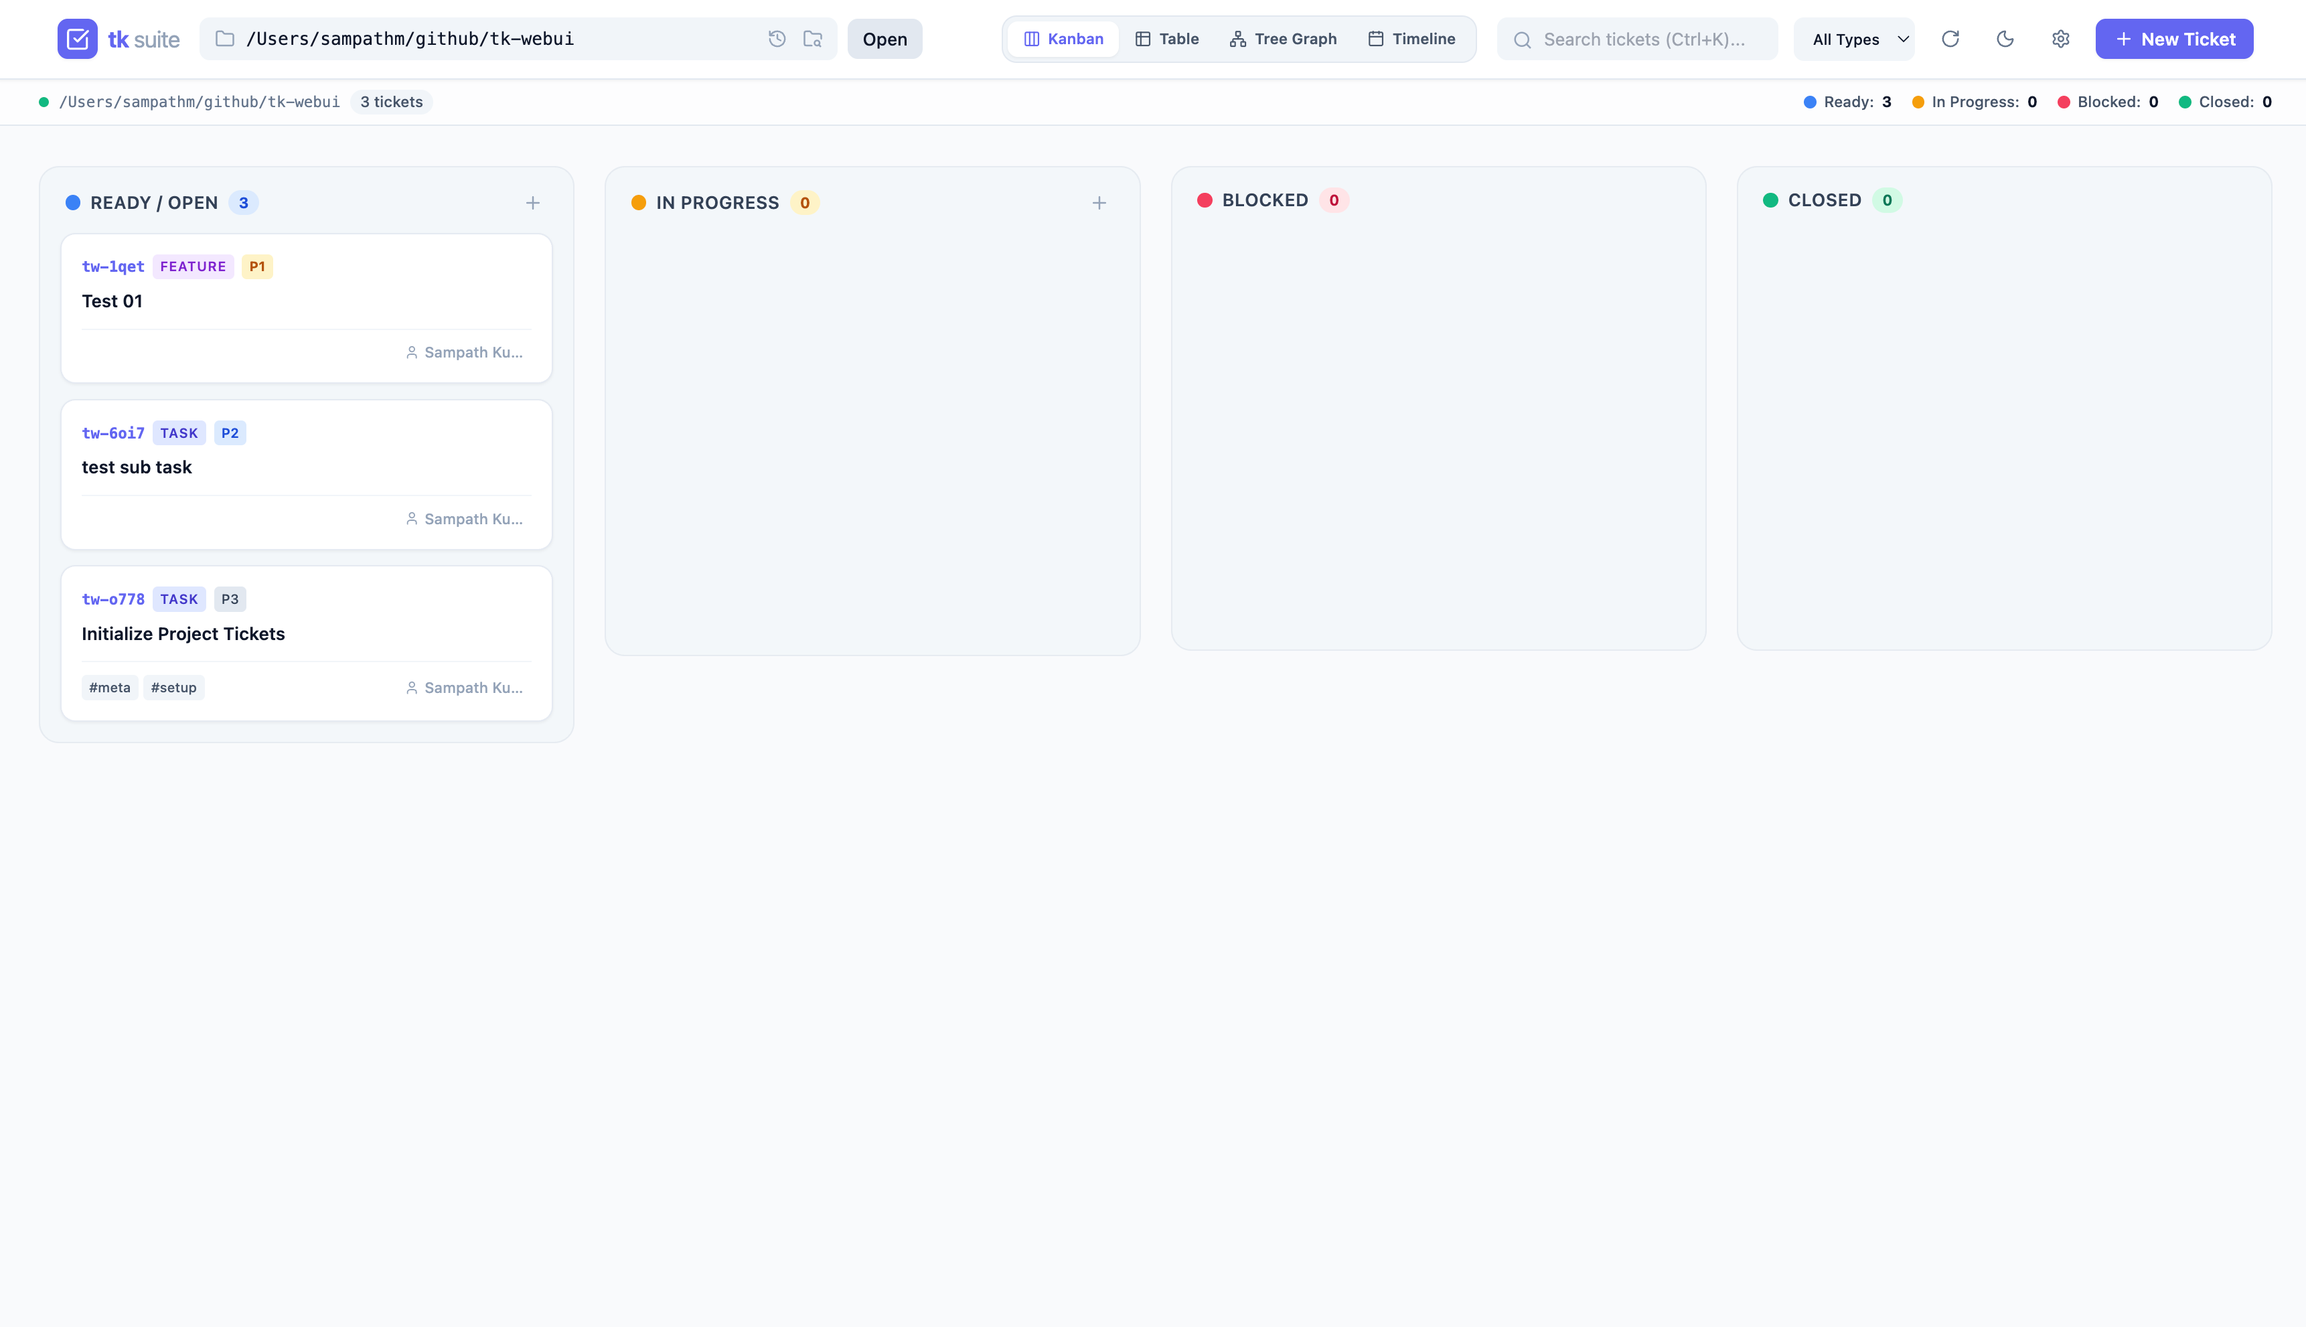
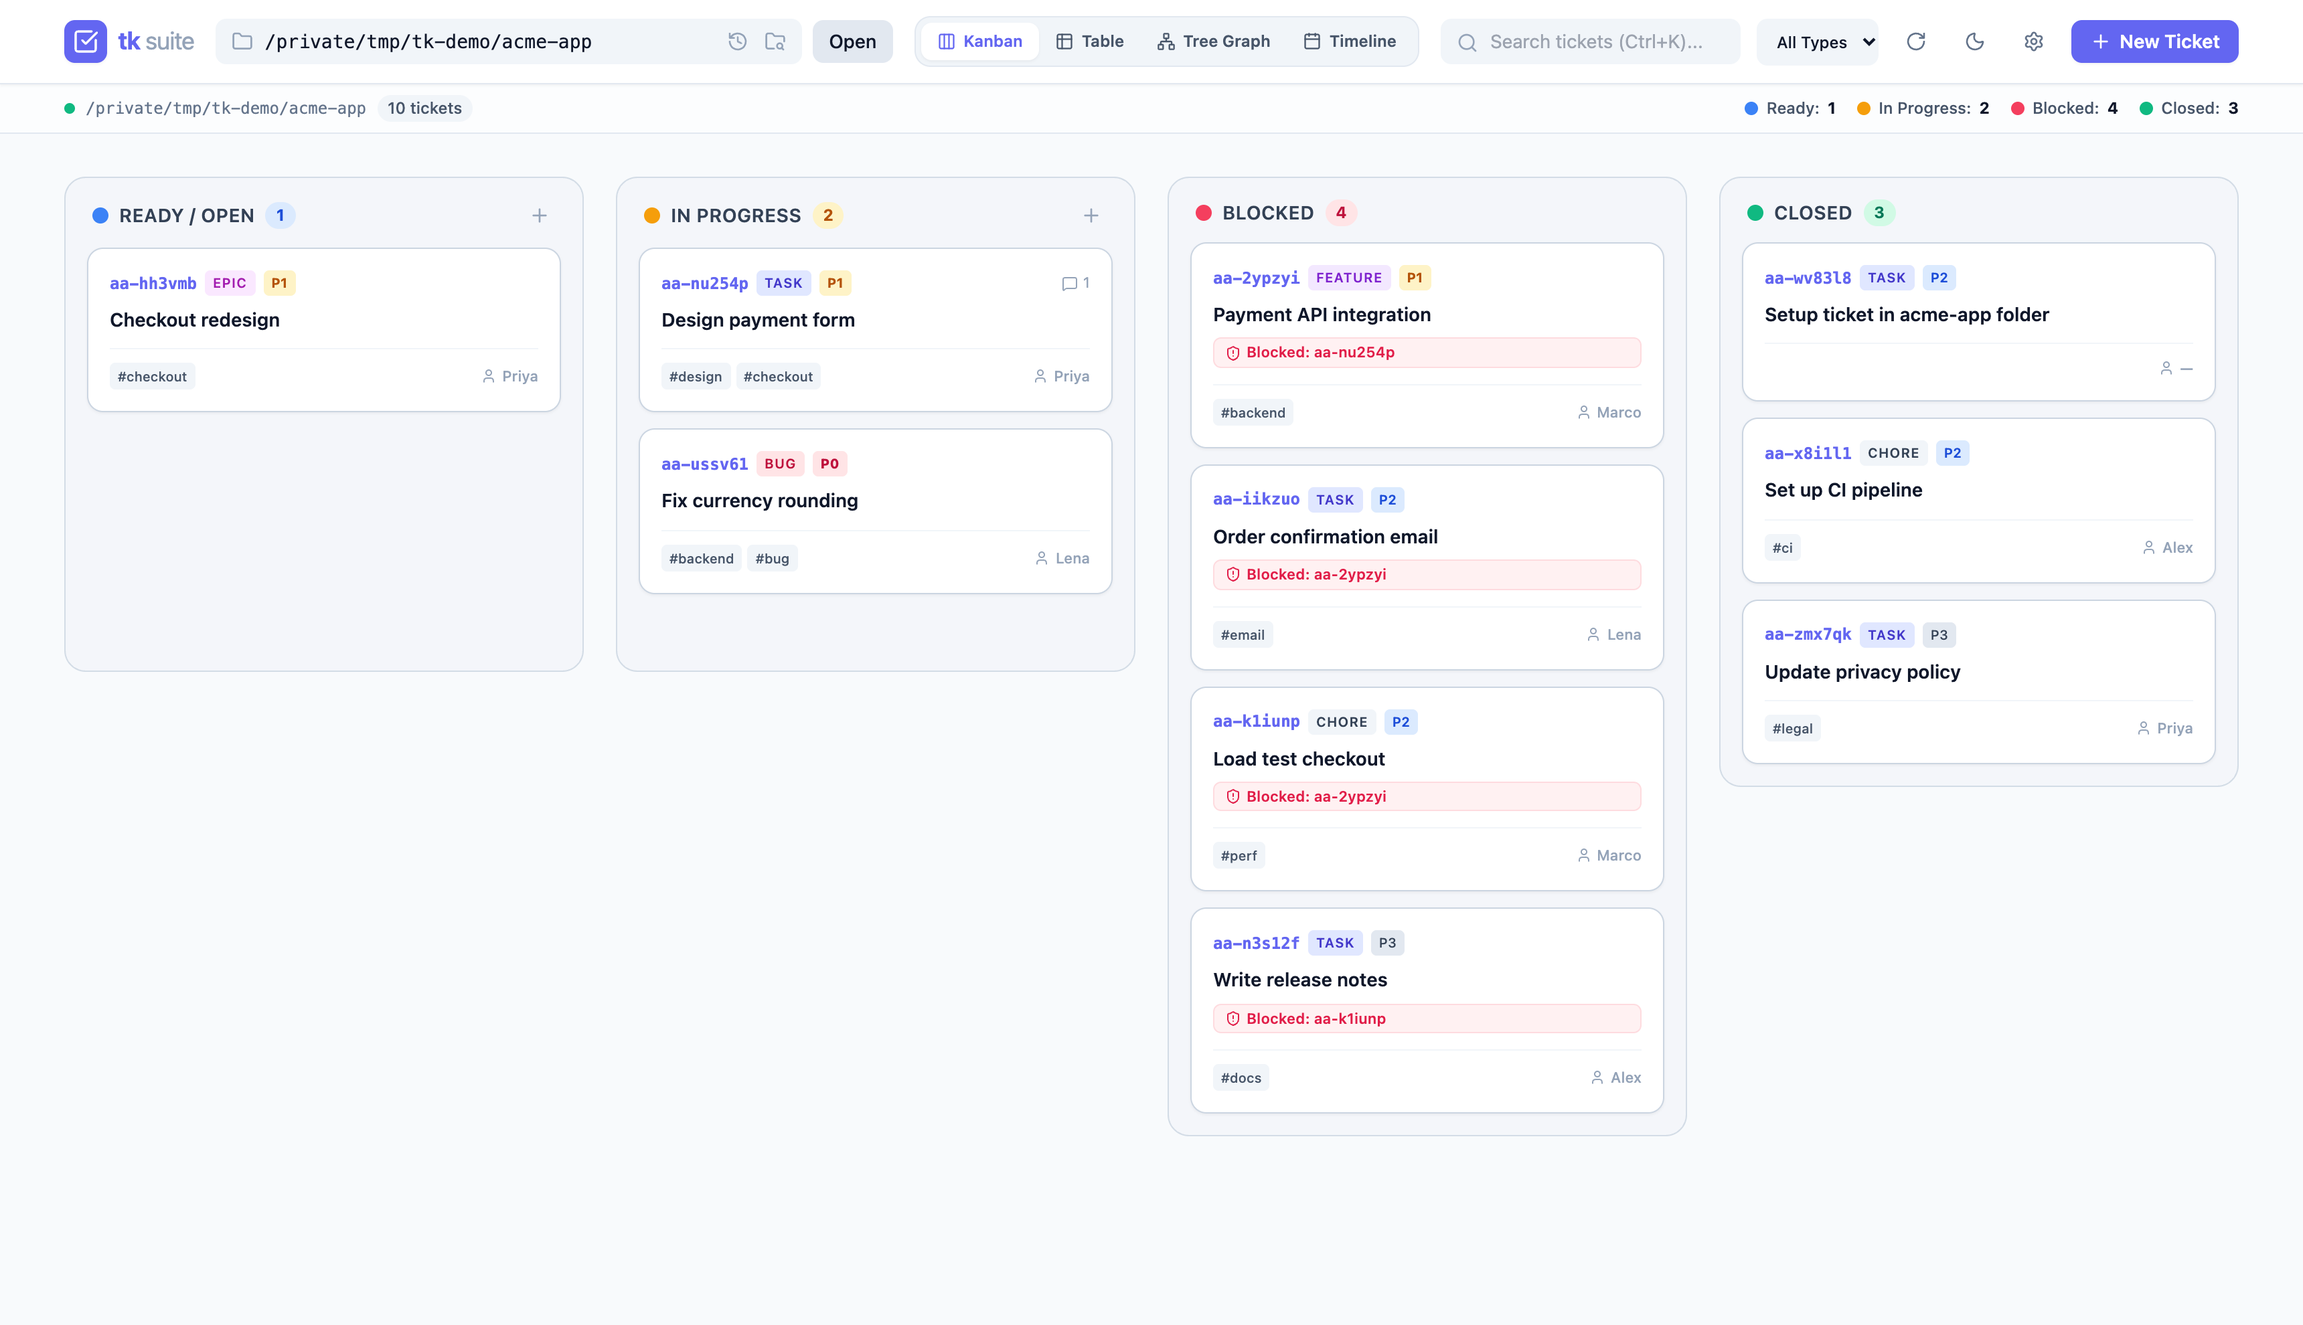
docs(webui): document hardening changes and refresh screenshots (tic-355b)
- Add security model: host allowlist, no CORS, cross-origin write rejection, 0.0.0.0 warning
- Document safe rendering, vendored assets, project selection order, auto-refresh
- Document daemon start/stop checks and blocked/ready semantics
- Align command docs with tk webui help; fix log rotation claim
- Regenerate screenshots from a demo project at full width

diff --git a/tk_webui/WEBUI-SPEC.md b/tk_webui/WEBUI-SPEC.md
@@ -9,13 +9,13 @@
 
 ## 1. Overview
 
-`tk-webui` is the official modern web application and review dashboard for `tk`. It runs a local FastAPI web server serving a vanilla HTML5/JavaScript application with Tailwind CSS and Marked.js.
+`tk-webui` is the official modern web application and review dashboard for `tk`. It runs a local FastAPI web server serving a vanilla HTML5/JavaScript application with Tailwind CSS and Marked.js. All frontend libraries are pinned copies in `static/vendor/` (versions and sha256 in [static/vendor/README.md](static/vendor/README.md)), so the UI works offline. Views use the full window width on large screens.
 
 ---
 
 ## 2. Core Views & Components
 
-1. **Kanban Board**: 4 drag-and-drop lanes (`Ready`, `In Progress`, `Blocked`, `Closed`) with pagination for older completed tasks.
+1. **Kanban Board**: 4 drag-and-drop lanes (`Ready`, `In Progress`, `Blocked`, `Closed`) with pagination for older completed tasks. Blocked state matches core `tk blocked` / `tk ready` (see 5.3).
 2. **Table View**: High-density tabular layout with search, sorting, type filters, and 4-sided active theme border highlights on row hover.
 3. **Mind Map & DAG Graph**: Visual node-and-edge hierarchical canvas with:
    - Orientation toggle (`Top-Down` $\leftrightarrow$ `Left-to-Right`).
@@ -25,7 +25,7 @@
    - Zoom in, Zoom out, and Reset View canvas controls.
 4. **Timeline View**: Chronological audit feed of tickets sorted by creation and modification timestamps.
 5. **Settings & Preferences**: Theme accent color selector (Indigo, Emerald, Violet, Amber, Rose, Cyan), Typography preferences (Font Family: System Sans, Inter, Monospace, Serif; Font Size: Small 14px, Default 16px, Large 18px, Extra Large 20px), high-contrast border mode with hover preservation, start/end date range filtering, settings reset, and documentation link.
-6. **Task Detail Drawer**: Markdown renderer for descriptions, acceptance criteria, parent task selector & subtask hierarchy linking/unlinking, symmetric links manager, dependency manager, and timestamped review feedback feed.
+6. **Task Detail Drawer**: Markdown renderer (Marked, sanitised with DOMPurify) for descriptions, acceptance criteria, parent task selector & subtask hierarchy linking/unlinking, symmetric links manager, dependency manager, and timestamped review feedback feed.
 7. **Auto-Refresh**: While the tab is visible, the UI polls `GET /api/tickets/version` every 3s and refetches tickets when it changes, so CLI and agent edits appear without a manual refresh. Refreshes wait while the new/edit ticket form is open or a card is being dragged.
 
 ### Visual Interface Showcase
@@ -51,15 +51,16 @@
 tk webui [directory] [--host HOST] [--port PORT] [--reload] [--version]
 ```
 
-- `directory`: Initial directory containing `.tickets/` (default: current working directory). The browser opens the `?dir=` URL parameter if present, else this directory. The last opened project is used only when the server was started without the CLI.
-- `--host`: Host IP to bind (default: `127.0.0.1`).
+- `directory`: Initial directory containing `.tickets/` (default: current working directory). The browser opens, in order: the `?dir=` URL parameter, else this directory (from `GET /api/config`), else the last project opened in the browser (only when the server was started without the CLI).
+- `--host`: Host IP to bind (default: `127.0.0.1`). The value is added to the Host allowlist; `0.0.0.0` / `::` allow any Host (see 5.1).
 - `--port`: Port number (default: `8475`, derived from ASCII values for **T** = 84, **K** = 75).
+- `--reload`: Reload on code change (development only).
 - `--version` / `-v`: Displays version and project details (`tk-webui 0.4.0`).
 
 ### 3.2 Background Daemon Server (`tk webui server` & shortcuts)
 ```bash
 # Daemon management
-tk webui server start [directory] [--port PORT]   # Start daemon in background
+tk webui server start [directory] [--host HOST] [--port PORT]   # Start daemon in background
 tk webui server status                            # Check status, URL, PID, and logs
 tk webui server stop                              # Stop background daemon
 tk webui server restart [directory]               # Restart background daemon
@@ -72,14 +73,21 @@ tk webui restart [directory]                      # Shortcut for server restart
 ```
 
 State files and logs are managed under `~/.local/state/tk/`:
-- PID file: `~/.local/state/tk/webui.json`
-- Daemon log: `~/.local/state/tk/webui.log`
+- PID file: `~/.local/state/tk/webui.json` (`pid`, `host`, `port`, `directory`, `started_at`)
+- Daemon log: `~/.local/state/tk/webui.log` (appended, not rotated)
+- Project registry: `~/.local/state/tk/projects.json`, shared with core `tk init`: `{"projects": [...]}`, 2-space indent, written atomically (temp file + rename). Entries without `.tickets/` are hidden from the switcher but kept in the file.
+
+Daemon behaviour:
+- `start` fails immediately if the port already accepts connections. It then polls until the server listens (10s timeout). Early exit or timeout prints the reason and log path and returns non-zero; on timeout the child is terminated.
+- `stop` / `status` treat `webui.json` as live only if the PID is alive and its command line contains `tk_webui` and `--port <port>`. Otherwise the file is removed and no signal is sent. `stop` sends SIGTERM, waits 3s, and re-checks identity before SIGKILL.
 
 ---
 
 ## 4. Backend REST API Endpoints
 
 - `GET /api/config`: Returns `{"initial_dir": <path|null>}`, the directory the CLI was launched for (`null` without the CLI).
+- `GET /api/projects`: Returns `{"projects": [...]}`, registered projects that currently contain `.tickets/`.
+- `POST /api/projects`: Body `{"path": <path>}`; registers a project (most recent first).
 - `GET /api/check-directory?path=<path>`: Validates folder and checks for `.tickets/`.
 - `GET /api/browse?path=<path>`: Returns subfolders with `.tickets` badges for repository browsing.
 - `GET /api/tickets?directory=<path>`: Returns array of ticket JSON objects parsed from `.tickets/*.md`.
@@ -93,3 +101,31 @@ State files and logs are managed under `~/.local/state/tk/`:
 - `POST /api/tickets/links`: Adds a symmetric relational link between two tickets.
 - `DELETE /api/tickets/links`: Removes a symmetric relational link between two tickets.
 - `POST /api/init`: Initializes `.tickets/` repository.
+
+---
+
+## 5. Security & Semantics
+
+### 5.1 Security Model
+
+The server has no authentication and acts with the user's file permissions, so it accepts only local, same-origin requests:
+
+- Binds to `127.0.0.1` by default.
+- `TrustedHostMiddleware` allows Host `127.0.0.1`, `localhost` and the configured `--host`; other Hosts get `400` (DNS-rebinding defence). Binding `0.0.0.0` or `::` allows any Host and exposes the API to the network.
+- No CORS middleware: the UI is same-origin, so browsers block cross-origin reads.
+- Non-`GET`/`HEAD`/`OPTIONS` requests whose `Origin` header does not match `Host` get `403` (CSRF defence).
+- Markdown is rendered with Marked and sanitised with DOMPurify; other ticket fields are HTML-escaped before insertion.
+- No runtime CDN loads; vendored assets are pinned and hashed (`static/vendor/README.md`).
+
+### 5.2 Auto-Refresh
+
+See section 2, item 7. The UI polls `GET /api/tickets/version` every 3s while the tab is visible; deferred while the ticket form is open or a card is dragged.
+
+### 5.3 Blocked / Ready Semantics
+
+Computed in `tk_cli.get_all_tickets`, matching core `cmd_ready` / `cmd_blocked`:
+
+- Only `open` and `in_progress` tickets can be blocked.
+- A dependency blocks unless its status is exactly `closed`; a dependency ID with no matching ticket blocks.
+- `blocked_by` lists the unresolved dependency IDs.
+- Parity with `tk ready` / `tk blocked` is covered by `features/webui_blocked_state.feature`.

diff --git a/docs/plugins/webui.md b/docs/plugins/webui.md
@@ -27,6 +27,9 @@ The **Web UI** (`tk-webui`) is an official plugin providing a visual dashboard r
 - **In-Place Task Editing**: Edit titles, descriptions, tags, priorities, assignees, design notes, and acceptance criteria directly in the browser.
 - **PR-Style Review Comments**: Chronological audit trail for review notes and comments (`Cmd+Enter` to submit).
 - **Multi-Project Switcher**: Switch between repositories containing `.tickets/` on your system.
+- **Auto-Refresh**: CLI and agent edits appear within about 3 seconds, without a manual reload.
+- **Works Offline**: All scripts and styles are served locally; no CDN or network access is needed.
+- **Full-Width Layout**: Views use the whole window on large screens.
 
 ---
 
@@ -48,21 +51,61 @@ This installs `tk-webui` to `~/.local/bin/`. Ensure `~/.local/bin` is in your `$
 
 ## Server & Daemon Commands
 
-You can run the Web UI as an active foreground process or as a persistent background daemon:
+These match `tk webui help`:
 
 ```bash
-# Foreground Server
-tk webui [optional-project-path]
+# Foreground server (Ctrl+C to stop)
+tk webui [directory] [--host HOST] [--port PORT] [--reload]
 
-# Background Daemon Management
-tk webui server start [optional-project-path]  # Starts daemon on http://127.0.0.1:8475
-tk webui server status                         # Inspect PID, URL, and log path
-tk webui server stop                           # Stop daemon
-tk webui server restart                        # Restart daemon
+# Background daemon
+tk webui server start [directory] [--host HOST] [--port PORT]
+tk webui server status        # PID, URL, directory, start time, log path
+tk webui server stop
+tk webui server restart [directory] [--host HOST] [--port PORT]
 
-# Run locally without installing
-./run.sh [optional-project-path]
+# Shortcuts: tk webui start | status | stop | restart
+tk webui version              # also --version, -v
+tk webui help                 # also --help, -h
+
+# Run from a checkout without installing
+./run.sh [directory]
 ```
+
+| Option | Default | Meaning |
+| --- | --- | --- |
+| `directory` | current directory | Project opened first (see below) |
+| `--host` | `127.0.0.1` | Bind address (see [Security Model](#security-model)) |
+| `--port` | `8475` | Listen port |
+| `--reload` | off | Reload on code change (development, foreground only) |
+
+### Which project opens
+
+The browser picks the first available of:
+
+1. `?dir=<path>` in the page URL.
+2. The directory the CLI was started for (`tk webui <dir>`, else the current directory), served by `GET /api/config`.
+3. The last project opened in this browser (only when the server was started without the CLI).
+
+### Daemon behaviour
+
+- **Start** refuses to launch if the port already accepts connections, then waits up to 10 seconds for the server to listen. If the process exits early or never listens, it reports the failure and the log path and exits non-zero.
+- **Stop and status** check that the PID in `webui.json` is still a `tk_webui` process on the recorded port. If not (process gone or PID reused by another program), the state file is treated as stale and removed; no signal is sent.
+
+---
+
+## Security Model
+
+The Web UI is a local, single-user tool with no authentication. It reads and writes ticket files, browses directories, and runs `tk` as your user, so it only accepts requests from your own machine:
+
+- **Localhost only**: Binds to `127.0.0.1` by default.
+- **Host allowlist**: Requests whose `Host` header is not `127.0.0.1`, `localhost`, or the `--host` value get `400`. This blocks DNS-rebinding attacks.
+- **No CORS**: The UI is served from the same origin as the API, so no cross-origin access is granted. Other websites cannot read API responses.
+- **Cross-origin writes rejected**: `POST`, `PUT` and `DELETE` requests with an `Origin` header that does not match the host get `403`.
+- **Safe rendering**: Markdown is rendered with Marked and sanitised with DOMPurify; all other ticket text is HTML-escaped. A malicious ticket file cannot run script in the browser.
+- **Pinned, vendored assets**: Tailwind, Lucide, SortableJS, Marked and DOMPurify are pinned copies in `tk_webui/static/vendor/`, with versions and sha256 hashes listed in [static/vendor/README.md](https://github.com/msampathkumar/ticket/blob/master/tk_webui/static/vendor/README.md).
+
+!!! warning "Binding to other interfaces"
+    `--host 0.0.0.0` (or `::`) exposes the UI to your network and disables the host allowlist. Anyone who can reach the port can read and change tickets and browse directories. Only do this on a trusted network; cross-origin writes are still rejected.
 
 ---
 
@@ -73,5 +116,17 @@ The Web UI manages its runtime state locally without requiring an external datab
 - **Default Port**: **`8475`** (ASCII `T`=84, `K`=75).
 - **Default Host**: `127.0.0.1` (localhost).
 - **Daemon State File**: `~/.local/state/tk/webui.json` (records daemon PID, bound port, URL, and active project path).
-- **Daemon Logs**: `~/.local/state/tk/webui.log` (automatically rotated).
+- **Daemon Logs**: `~/.local/state/tk/webui.log` (appended; not rotated).
+- **Project Registry**: `~/.local/state/tk/projects.json`, shared with `tk init` (`{"projects": [...]}`, written atomically).
 - **Theme Engine**: Defaults to Indigo (`#6366f1`) with light/dark mode support; preferences persist in browser `localStorage`. In light mode, container and card borders use high-contrast slate-300 borders with dynamic brand-color hover transitions.
+
+---
+
+## Lanes and Blocked State
+
+Lanes follow the same rules as `tk ready` and `tk blocked`:
+
+- **Blocked**: an `open` or `in_progress` ticket with at least one dependency whose status is not `closed`. A dependency ID that matches no ticket also blocks.
+- **Ready / Open**: an `open` ticket with no unresolved dependencies.
+- **In Progress**: an `in_progress` ticket that is not blocked.
+- **Closed**: closed tickets are never shown as blocked.

diff --git a/docs/workflows/webui-team.md b/docs/workflows/webui-team.md
@@ -42,11 +42,13 @@ flowchart TD
 
 ### 1. Launch the Background Daemon
 
-Run the web dashboard persistently in the background:
+Run the web dashboard persistently in the background, for the current directory or a given project:
 
 ```bash
-tk webui server start
+tk webui server start              # or: tk webui server start /path/to/repo
 ```
+
+Start fails with the log path if port `8475` is already in use; pass `--port` to pick another.
 
 Check status or logs at any time:
 
@@ -59,9 +61,15 @@ tk webui server status
 Open [http://localhost:8475](http://localhost:8475) in your browser:
 
 - Switch to **Mind Map View** to inspect dependencies, parent-child task links, and critical paths.
-- Switch to **Kanban Board** to drag tasks between Ready, In Progress, Blocked, and Closed lanes.
+- Switch to **Kanban Board** to drag tasks between Ready, In Progress, Blocked, and Closed lanes. Blocked and Ready match `tk blocked` and `tk ready`.
+- Leave the tab open while you or your agents work: changes made with `tk` appear within about 3 seconds. Refreshes wait while a ticket form is open or a card is being dragged.
+- Open another project with `?dir=/path/to/repo` in the URL or the folder picker.
 
 ### 3. Review & Audit Notes
 
 - Open any task drawer to review design notes and acceptance criteria.
 - Append chronological audit notes with `Cmd+Enter` (macOS) or `Ctrl+Enter` (Linux/Windows).
+
+### 4. Sharing with a Team
+
+The Web UI is localhost-only and has no login. Each teammate runs it on their own machine against their own checkout; tickets are shared through Git. Binding to `0.0.0.0` exposes read/write access to anyone on the network. See the [Security Model](../plugins/webui.md#security-model).
